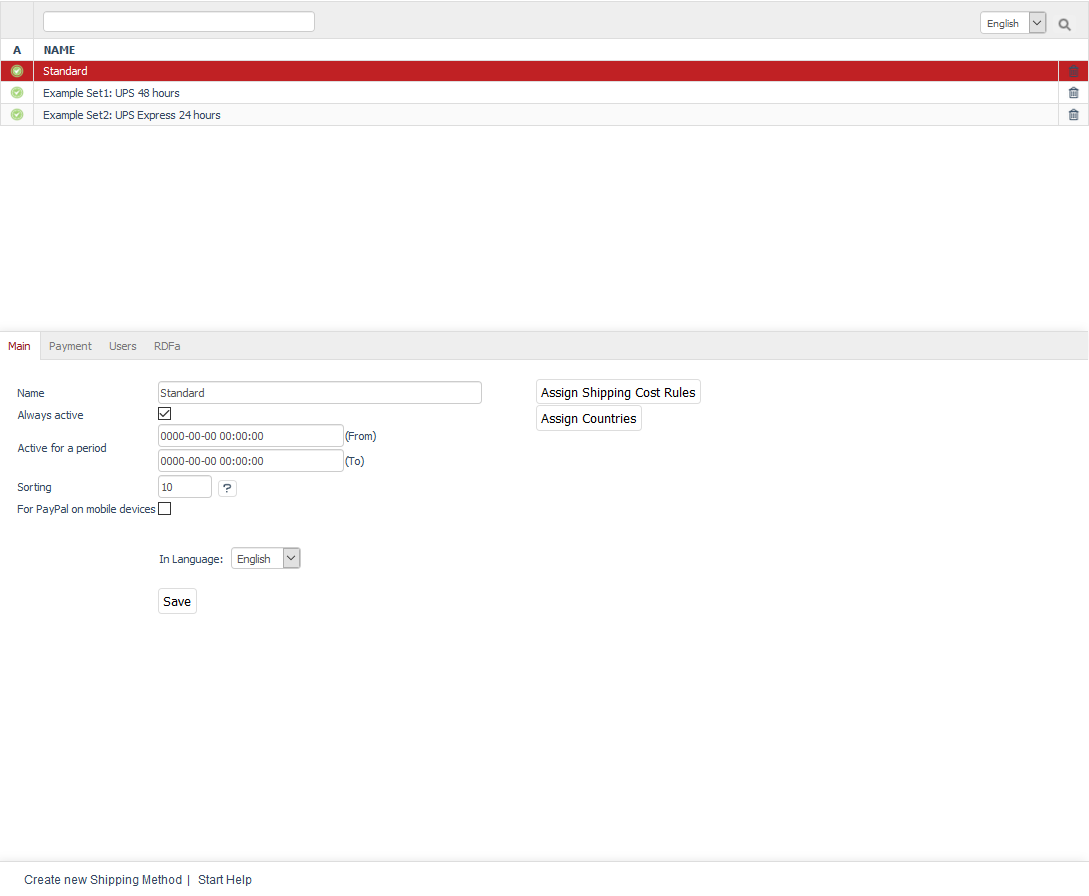
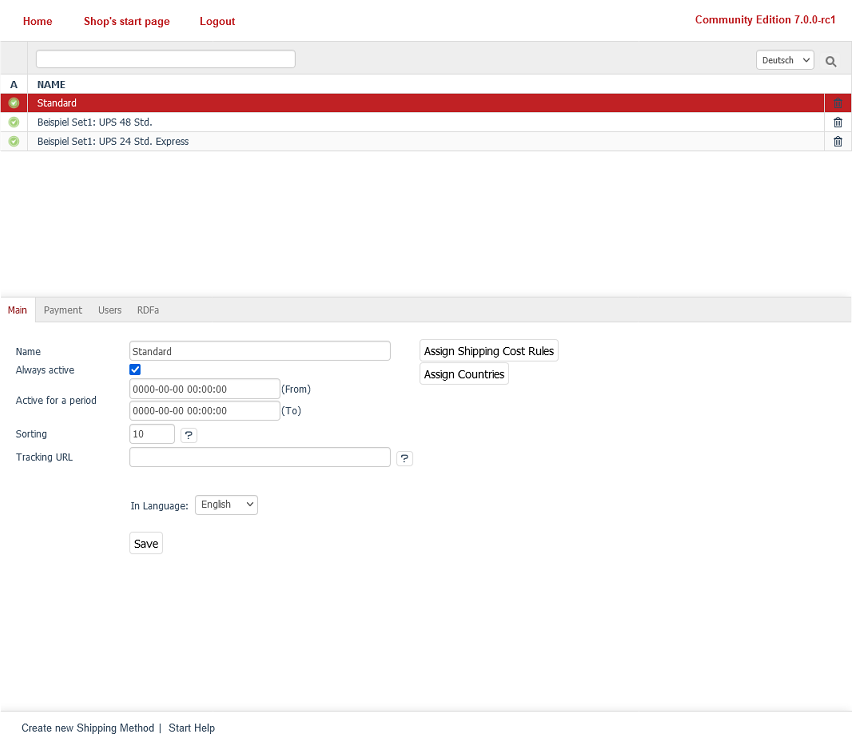
Documentation ready for 7.0.0 RC 1

diff --git a/releases/releases-2021/oxid-eshop-700.rst b/releases/releases-2021/oxid-eshop-700.rst
@@ -1,13 +1,13 @@
-OXID eShop 7.0.0
-================
+OXID eShop 7.0.0 RC 1
+=====================
 
-Release date RC 1: 27.07.2021
+Release date RC 1: 21.07.2021
 
 -----------------------------------------------------------------------------------------
 
 General information
 -------------------
-OXID eShop 6.3.0 is provided as a compilation with the following components:
+OXID eShop 7.0.0 RC 1 is provided as a compilation with the following components:
 
 * OXID eShop CE 7.0.0-rc1
 * OXID eShop PE 7.0.0-rc1
@@ -26,22 +26,20 @@ Modules, such as those for the payment methods, the WYSIWYG Editor + Mediathek o
 
 System requirements
 ^^^^^^^^^^^^^^^^^^^
-OXID eShop 7.0.0 runs under PHP 8.0, 7.4 and 7.3.
 
-The supported database is MySQL version 5.5 or 5.7 and MariaDB version 10.4. Using MySQL 5.6 is not recommended as it could cause issues with Enterprise Edition. Please refer to the blog post: `Set MySQL 5.6 optimizer setting "block_nested_loop = off" for OXID eShop Enterprise Edition <https://oxidforge.org/en/set-mysql-5-6-optimizer-setting-block_nested_loop-off-for-oxid-eshop-enterprise-edition.html>`_.
-
-Apache 2.2 or 2.4 can be used as a web server on a Linux system.
-
-Composer is supported in versions 1 and 2.
+* OXID eShop 7.0.0 RC 1 runs under PHP 7.4 and 8.0
+* MySQL version 5.7 and 8.0 as well as MariaDB version 10.4 are supported as database
+* Apache 2.2 or 2.4 can be used as a web server on a Linux system
+* Composer is supported in versions 1 and 2
+* Metadata is supported in versions 2.0 and 2.1
 
 Installation
 ^^^^^^^^^^^^
 Please follow the instructions in section "Installation":
 
-:doc:`New installation <../../installation/new-installation/new-installation>` |br|
-:doc:`Installing updates <../../installation/update/update>`
+:doc:`New installation <../../installation/new-installation/new-installation>`
 
-Please run the update first in a test or development environment, or a copy of your current shop. Then, test the ordering process and payment and shipping methods. If the shop works correctly, you can replace the shop in the live system with the one from the test or development environment.
+It is not recommended to update OXID eShop to version 7.0.0 RC 1. Update instructions will be available with the release of the final version.
 
 -----------------------------------------------------------------------------------------
 
@@ -51,28 +49,36 @@ Setup via command line
 ^^^^^^^^^^^^^^^^^^^^^^
 To complement the web-based setup, OXID eShop can now also be created and configured via the command line. The new command of the OXID eShop console ``oe:setup:store`` creates the database and configures the shop. The necessary information is transferred with parameters. In further steps demo data can be installed with ``oe:setup:demodata`` and the shop administrator can be created with ``oe:admin:create-user``. For OXID eShop Professional and Enterprise Edition, the ``oe:license:add`` command adds a valid license key. See: :doc:`Setup via command line <../../installation/new-installation/setup-command-line>`
 
+Module installation via command line
+^^^^^^^^^^^^^^^^^^^^^^^^^^^^^^^^^^^^
+Modules can be installed and uninstalled using the new OXID eShop console ``oe:module:install`` and ``oe:module:uninstall`` commands. All information about this can be found in the developer documentation: https://docs.oxid-esales.com/developer/en/7.0-rc.1/development/modules_components_themes/module/tutorials/module_setup.html and https://docs.oxid-esales.com/developer/en/7.0-rc.1/development/modules_components_themes/module/uninstall/index.html.
+
 -----------------------------------------------------------------------------------------
 
 Improvements and adjustments
 ----------------------------
 Updated components
 ^^^^^^^^^^^^^^^^^^
-
 The following components have been updated to a new version:
 
 * OXID eShop CE (Update von 6.8.0 auf 7.0.0-rc1), `Changelog 7.0.0-rc1 <https://github.com/OXID-eSales/oxideshop_ce/blob/v7.0.0-rc1/CHANGELOG.md>`_
 * OXID eShop PE (Update von 6.5.0 auf 7.0.0-rc1)
 * OXID eShop EE (Update von 6.6.0 auf 7.0.0-rc1)
-* Theme "Flow" (Update von 3.7.0 auf 4.0.0), `Changelog 4.0.0 <https://github.com/OXID-eSales/flow_theme/blob/v4.0.0/CHANGELOG.md>`_
+* Theme "Flow" (Update von 3.7.0 auf 4.0.0), `Changelog Flow 4.0.0 <https://github.com/OXID-eSales/flow_theme/blob/v4.0.0/CHANGELOG.md>`_
 * Theme "Wave" (Update von 1.6.0 auf 2.0.0), `Changelog 2.0.0 <https://github.com/OXID-eSales/wave-theme/blob/v2.0.0/CHANGELOG.md>`_
-
 * OXID eShop composer plugin (Update von 5.2.0 auf 6.0.0), `Changelog 6.0.0 <https://github.com/OXID-eSales/oxideshop_composer_plugin/blob/v6.0.0/CHANGELOG.md>`_
 * OXID eShop Views Generator (Update von 1.3.0 auf 2.0.0)
 * OXID eShop DemoData installer (Update von 1.2.0 auf 2.0.0)
 * OXID eShop demodata CE/PE/EE (Update von 6.0.4 auf 7.0.0)
 * OXID eShop doctrine migration integration (Update von 3.2.0 auf 4.0.0), `Changelog 4.0.0 <https://github.com/OXID-eSales/oxideshop-doctrine-migration-wrapper/blob/v4.0.0/CHANGELOG.md>`_
-* OXID eShop facts (Update von 2.4.0 auf 3.0.0), `Changelog 3.0.0 <https://github.com/OXID-eSales/oxideshop-facts/blob/v3.0.0/CHANGELOG.md>`_
+* OXID eShop facts (Update von 2.4.0 auf 3.0.0), `Changelog OXID eShop facts 3.0.0 <https://github.com/OXID-eSales/oxideshop-facts/blob/v3.0.0/CHANGELOG.md>`_
 * Unified Namespace Generator (Update von 2.2.0 auf 3.0.0), `Changelog 3.0.0 <https://github.com/OXID-eSales/oxideshop-unified-namespace-generator/blob/v3.0.0/CHANGELOG.md>`_
+
+Tracking URL per shipping method
+^^^^^^^^^^^^^^^^^^^^^^^^^^^^^^^^
+Until now, one tracking URL could be defined per shop. It is entered in the Admin panel under :menuselection:`Master Settings --> Core Settings --> Settings --> Other settings`. This tracking URL is now the default tracking URL and can be replaced with a custom tracking URL per shipping method.
+
+As soon as the package ID (depending on the shipping service provider tracking code, parcel label number, package reference, shipment number, etc.) is entered with the order, the tracking link, consisting of the tracking URL and the package ID of the order, is available. It will be sent to the customer as a tracking link in the e-mail informing him/her of the shipment. The tracking link is also displayed in the customer's order history in the frontend.
 
 Credit card no longer supported as a payment method
 ^^^^^^^^^^^^^^^^^^^^^^^^^^^^^^^^^^^^^^^^^^^^^^^^^^^
@@ -85,6 +91,16 @@ Newsletters are a fast and easy way to notify online shop customers of current t
 News removed
 ^^^^^^^^^^^^
 Messages could already be accessed with "Flow", default theme since OXID eShop 6.0.0, only via a link in the footer. Now this little-used feature has been completely removed from the shop.
+
+Modules changes
+^^^^^^^^^^^^^^^
+
+* Native Composer support for modules: Files remain entirely in the :file:`/vendor` directory. They are not copied to :file:`/source/modules`.
+* Caching for module assets, the static files required by modules in the frontend (CSS, JavaScript or image files), has been optimized. See: https://github.com/OXID-eSales/oxideshop_ce/pull/493
+
+No encoded values in database
+^^^^^^^^^^^^^^^^^^^^^^^^^^^^^
+Encoding of database values has been removed as functionality is no longer supported by MySQL 8.0.
 
 -----------------------------------------------------------------------------------------
 

diff --git a/operation/orders/main-tab.rst b/operation/orders/main-tab.rst
@@ -31,13 +31,19 @@ The :guilabel:`Main` tab allows you to add or change the order information. This
 :guilabel:`Shipping Information`
    When placing an order, the customer had to select a shipping method that will be displayed together with the shipping costs. The shop owner can change this information if needed.
 
+:guilabel:`Shipping Information - Tracking Code`
+   Enter here the package ID of the order (depending on the shipping service provider tracking code, parcel label number, package reference, shipment number, etc.). The tracking link, consisting of the tracking URL and the package ID of the order, is sent to the customer for tracking purposes with the e-mail notifying him/her of the shipment. The tracking link is also displayed in the customer's order history in the frontend.
+
+   The tracking URL can be defined for each individual shipping method. If there is no special tracking URL for a shipping method, the one entered in the Admin panel under :menuselection:`Master Settings --> Core Settings --> Settings --> Other settings` will be used.
+
    You can enter the tracking URL of the shipping service provider under :menuselection:`Master Settings --> Core Settings --> Settings --> Other settings` in the Admin panel to allow customers to track their orders. The tracking URL and the order's package ID (tracking code, parcel label number, package reference, etc., depending on the shipping service provider) will be sent to the customer as a tracking link in the e-mail informing him/her of the shipment. By default, shipment tracking is configured for the DPD (Dynamic Parcel Distribution) shipping service provider.
 
-The :guilabel:`Ship Now`, :guilabel:`Reset Shipping Date` and :guilabel:`Send e-mail?` buttons perform the same function as in the :guilabel:`Overview` tab. You can set the shipping date and inform the customer about the shipment of the products by e-mail. The :guilabel:`Shipped on` line will be filled with the date and time.
+   The :guilabel:`Ship Now`, :guilabel:`Reset Shipping Date` and :guilabel:`Send e-mail?` buttons perform the same function as in the :guilabel:`Overview` tab. You can set the shipping date and inform the customer about the shipment of the products by e-mail. The :guilabel:`Shipped on` line will be filled with the date and time.
 
 :guilabel:`Ordered download links`
    With OXID eShop 4.6.0, we have introduced a new product type: downloadable products. These could be software, photos, music files or document templates. When the customer adds a downloadable product to the shopping cart, he/she will receive all the associated files and will be able to download them in the shop. Click on :guilabel:`Send` to send an e-mail with the download links to the customer.
 
 .. seealso:: `Data protection: Are online retailers allowed to store IP addresses of their customers? <http://shop.trustedshops.com/de/rechtstipps/datenschutz-duerfen-online-haendler-ip-adressen-ihrer-kunden-speichern>`_ (Trusted Shops, in German) | `Features/oxCounter implementation <http://oxidforge.org/en/oxcounter-implementation.html>`_ (OXIDforge)
 
-.. Intern: oxbaed, Status:, F1: order_main.html
+
+.. Intern: oxbaed, Status:, F1: order_main.html, transL

diff --git a/installation/new-installation/server-and-system-requirements.rst b/installation/new-installation/server-and-system-requirements.rst
@@ -3,7 +3,7 @@
 
 OXID eShop can run on different server systems. The choice of a suitable hosting package depends, for example, on the number of products, the expected number of visitors in the shop, and the number of orders. While a shared hosting system is sufficient for a small shop with a few hundred products, a few visitors per month and a manageable order volume, a managed server system should be selected for larger shops. As the load increases, you should consider using a server farm with load balancing and a database cluster. Please contact our `OXID Hosting Partners <https://www.oxid-esales.com/oxid-welt/partner/partner-finden/>`_ for advice and support in selecting the right system. They provide solutions specifically tailored to OXID eShop.
 
-The following system requirements must be met to operate OXID eShop version 6.
+The following system requirements must be met to operate OXID eShop version 7.
 
 Web server
 ----------
@@ -15,12 +15,10 @@ Web server
 
 Please note that even with the *mod_rewrite* extension installed, the system health check may not meet the requirements. Often, one of the reasons for this is the setting for *AllowOverride* in the Apache vhost configuration. This was changed to *AllowOverride None* with Apache 2.3.9.
 
-Zend Guard Loader is no longer needed because OXID eShop 6 is not encrypted.
-
 Database
 --------
 
-* MySQL 5.5 and 5.7
+* MySQL 5.7 and 8.0
 * MariaDB Support (tested with MariaDB 10.4)
 
 The database user needs sufficient permission to create a database during the installation if it doesn’t already exist. The user also needs permission to create views.
@@ -30,7 +28,7 @@ The transaction isolation level must be left with the default value *REPEATABLE 
 PHP
 ---
 
-* PHP version 7.1 to 7.4
+* PHP version 7.4 and 8.0
 * Recommended *memory_limit* is 60 MB, but it should be no less than 32 MB
 * PHP setting *session.auto_start* in :file:`php.ini` should be disabled (OFF)
 * File uploads should be enabled in PHP
@@ -51,16 +49,17 @@ PHP extensions that need to be installed:
 * *SOAP*
 * *DOM*
 
+.. note:: To run PHP 8 we strongly recommend to set the the error_reporting of PHP to ``error_reporting = E_ALL & ~E_NOTICE & ~E_WARNING & ~E_DEPRECATED`` otherwise you will get a lot of warnings.
+
 Composer
 --------
 
 * Composer
 
-Composer is required for the installation of OXID eShop and changes in autoloading of files (not at runtime). With OXID eShop 6.2.3 from November 2020, versions 1 and 2 of Composer are supported. The requirements for Composer can be found in `https://getcomposer.org/doc/00-intro.md#system-requirements <https://getcomposer.org/doc/00-intro.md#system-requirements>`_.
+Composer is required for the installation of OXID eShop and changes in autoloading of files (not at runtime). OXID eShop 7.0.0 has been tested with Composer versions 1 and 2. Please note the future availability of Composer version 1. See: `Deprecating Packagist.org support for Composer 1.x <https://blog.packagist.com/deprecating-composer-1-support/>`_
 
 OpenSSL
 -------
-
 Compilation modules require OpenSSL.
 
 * *openssl* >= 1.0.1

diff --git a/setup/shipping-methods/main-tab.rst b/setup/shipping-methods/main-tab.rst
@@ -5,7 +5,7 @@ The :guilabel:`Main` tab contains several settings for the shipping method. Ship
 
 .. image:: ../../media/screenshots/oxbade01.png
    :alt: Shipping methods - Main tab
-   :height: 343
+   :height: 339
    :width: 650
 
 :guilabel:`Name`
@@ -19,6 +19,11 @@ The :guilabel:`Main` tab contains several settings for the shipping method. Ship
 
 :guilabel:`Sorting`
    Sorting determines the order in which shipping methods appear in the drop-down list. The shipping method with the smallest number will be listed first and preselected.
+
+:guilabel:`Tracking URL`
+   A separate tracking URL can be defined for each shipping method. ##ID## serves as a placeholder, which is replaced by the respective package ID of the order (depending on the shipping service provider tracking code, parcel label number, package reference, shipment number, etc). If a shipping method does not have its own tracking URL, the one entered in the administration panel under :menuselection:`Master data --> Basic settings --> Settings. --> Other settings` will be used.
+
+   Tracking URL and specific package ID of the order are combined to the tracking link. It will be sent to the customer as a tracking link in the e-mail informing him/her of the shipment. The tracking link is also displayed in the customer's order history in the frontend.
 
 :guilabel:`In Language`
    The shipping method can be edited in other active languages of the shop. To do this, select the desired language from the drop-down list.
@@ -36,4 +41,5 @@ The :guilabel:`Main` tab contains several settings for the shipping method. Ship
 
    Clicking on :guilabel:`Assign Countries` opens a new window with all active countries displayed in the left-hand list. Countries can be sorted and filtered by title and/or country abbreviation (ISO Alpha 2). Drag the desired countries into the right-hand list using the mouse. Hold down the Ctrl key to select multiple countries. The assignment to the shipping method is now completed.
 
-.. Intern: oxbade, Status:, F1: deliveryset_main.html
+
+.. Intern: oxbade, Status:, F1: deliveryset_main.html, transL

diff --git a/installation/new-installation/new-installation.rst b/installation/new-installation/new-installation.rst
@@ -15,7 +15,7 @@ The installation guide in English can be found in the developer documentation: `
 
 Server und system requirements
 ------------------------------
-**Contents**: server, shared hosting, managed server, server farm with load balancing and database cluster, Linux, web server, Apache 2.2 + 2.4, MySQL 5.5 + 5.7, MariaDB 10.4, PHP from 7.1 to 7.4, Composer, OpenSSL |br|
+**Contents**: server, shared hosting, managed server, server farm with load balancing and database cluster, Linux, web server, Apache 2.2 + 2.4, MySQL 5.7 + 8.0, MariaDB 10.4, PHP 7.4 + 8.0, Composer 1 + 2, Metadata 2.0 + 2.1, OpenSSL |br|
 :doc:`Read article <server-and-system-requirements>` |link|
 
 Preparing for installation
@@ -30,7 +30,7 @@ Web-based setup
 
 Setup via command line
 ----------------------
-**Contents**: setup via command line, oe:setup:shop, Datenbank, db-host, db-port, db-name, db-user, db-password, shop configuration, shop-url, shop-directory, compile-directory, language, oe:setup:demodata, demo datea, oe:admin:create-user, access data for administration panel, shop administrator, admin-email, admin-password, oe:license:add, oe:license:clear, license key for PE/EE |br|
+**Contents**: setup via command line, oe:setup:shop, Datenbank, db-host, db-port, db-name, db-user, db-password, shop configuration, shop-url, shop-directory, compile-directory, language, oe:setup:demodata, demo datea, oe:admin:create-user, access data for administration panel, shop administrator, admin-email, admin-password, oe:license:add, oe:license:clear, license key for PE/EE, module installation, oe:module:install, oe:module:uninstall |br|
 :doc:`Read article <setup-command-line>` |link|
 
 

diff --git a/setup/shipping-methods/shipping-methods.rst b/setup/shipping-methods/shipping-methods.rst
@@ -13,7 +13,7 @@ The input area for shipping methods is located right below the list. When you se
 
 .. image:: ../../media/screenshots/oxbadd01.png
    :alt: Shipping methods
-   :height: 535
+   :height: 566
    :width: 650
 
 OXID eShop comes with the following shipping methods: \"Standard\", \"Example Set1: UPS 48 hours\" and \"Example Set2: UPS Express 24 hours\". These can be used after being customised, or as a template for newly defined shipping methods.
@@ -26,7 +26,7 @@ The assignment of users and user groups is optional. If no user or user group ha
 
 Main tab
 --------
-**Contents**: active shipping method, active time period, sorting, assigning shipping cost rules and countries |br|
+**Contents**: active shipping method, active time period, sorting, tracking URL, assigning shipping cost rules and countries |br|
 :doc:`Read article <main-tab>` |link|
 
 Payment tab

diff --git a/installation/new-installation/setup-command-line.rst b/installation/new-installation/setup-command-line.rst
@@ -67,5 +67,9 @@ OXID eShop Professional and Enterprise Edition require a valid license key for p
 
 With the command ``oe:license:clear`` all license keys of a shop can be deleted.
 
+|schritt| Installing modules
+----------------------------
+Modules can be installed using the ``oe:module:install`` command of the OXID eShop console. The ``oe:module:uninstall`` command removes a specified module from the shop. All information about this can be found in the developer documentation: https://docs.oxid-esales.com/developer/en/7.0-rc.1/development/modules_components_themes/module/tutorials/module_setup.html and https://docs.oxid-esales.com/developer/en/7.0-rc.1/development/modules_components_themes/module/uninstall/index.html.
+
 
 .. Intern: oxbaju, Status: transL

diff --git a/releases/releases.rst b/releases/releases.rst
@@ -3,7 +3,7 @@
 
 2021 releases
 -------------
-27/07/2021 - :doc:`OXID eShop 7.0.0 <releases-2021/oxid-eshop-700>`
+21/07/2021 - :doc:`OXID eShop 7.0.0 RC 1 <releases-2021/oxid-eshop-700>`
 
 
 .. Intern: oxbabe, Status:

diff --git a/releases/releases-2021/index.rst b/releases/releases-2021/index.rst
@@ -4,4 +4,4 @@
 .. toctree::
    :maxdepth: 1
 
-   27/07/2021 - OXID eShop 7.0.0 <oxid-eshop-700>
+   21/07/2021 - OXID eShop 7.0.0 RC 1 <oxid-eshop-700>
